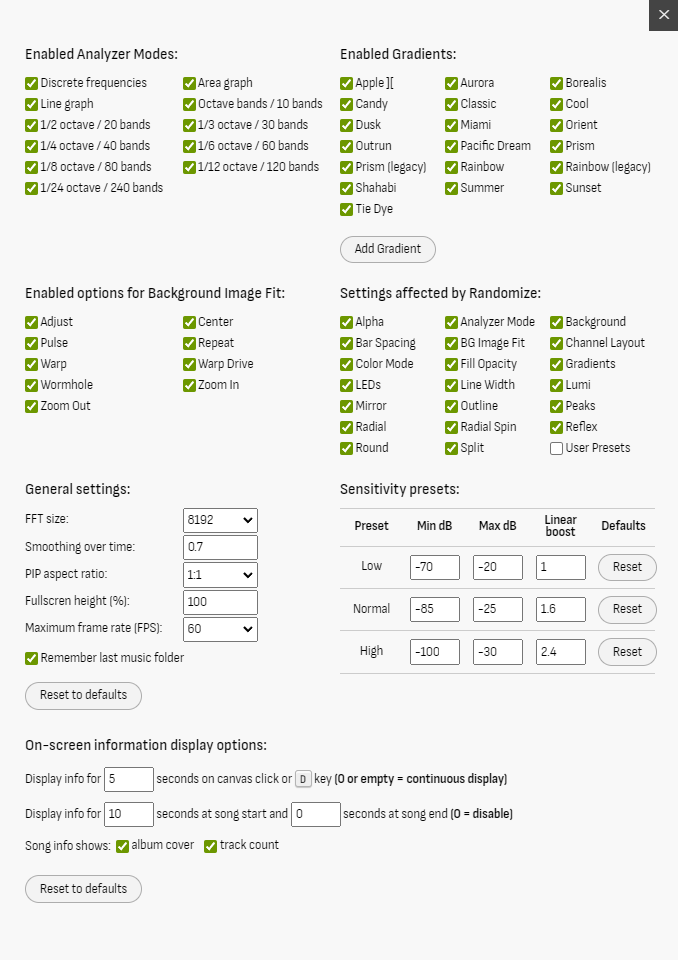
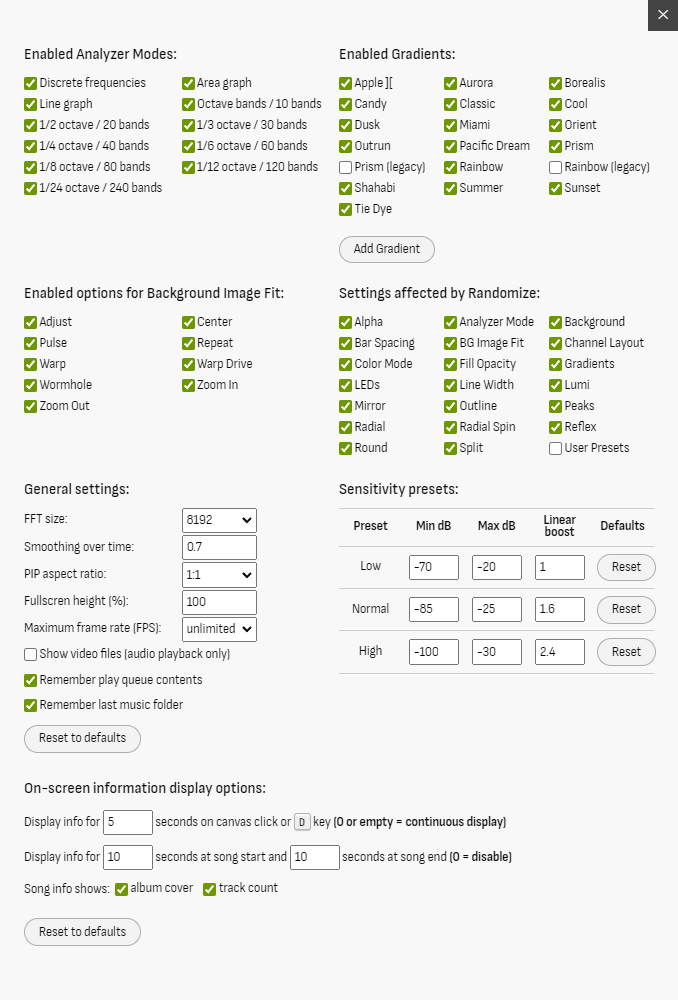
Update documentation.

diff --git a/docs/users-manual.md b/docs/users-manual.md
@@ -314,7 +314,7 @@ visualization of frequencies to which the human ear is more or less sensitive.
 
 ![weighting-filters-curves](img/weighting-filters-curves.png)
 
-?> Weighting filters **do NOT** affect the audio output.
+?> Weighting filters **do NOT** affect audio output. Some filters may impact performance, due to increased real-time data processing.
 
 ### Channel Layout
 
@@ -329,7 +329,7 @@ Selects single or dual channel display, with different layout options:
 | **HORIZ** | Dual channel, side by side - see [Mirror](#mirror) for additional layout options.
 | **VERT**  | Dual channel, left channel at the top half of the canvas and right channel at the bottom.
 
-This setting does NOT affect the audio output of stereo songs.
+The channel layout setting does NOT affect stereo audio output.
 
 ### Switches
 
@@ -338,7 +338,7 @@ This setting does NOT affect the audio output of stereo songs.
 | Switch      | Description |
 |:------------|:------------|
 | **INFO**    | Toggle on-screen display of song information on every track change
-| **PEAKS**   | Toggle display of amplitude peaks for each frequency
+| **PEAKS**   | Toggle display of amplitude peaks
 | **SCALE&nbsp;X** | Toggle display of scale on the horizontal axis (frequency)
 | **NOTES**   | Switch between musical notes and frequency values for the labels displayed in the horizontal axis scale
 | **SCALE&nbsp;Y** | Toggle display of scale on the vertical axis (level/volume)
@@ -346,15 +346,13 @@ This setting does NOT affect the audio output of stereo songs.
 | **ANSI**    | Switch between [ANSI/IEC preferred frequencies](https://archive.org/details/gov.law.ansi.s1.11.2004) and [equal-tempered scale](http://hyperphysics.phy-astr.gsu.edu/hbase/Music/et.html) to generate octave bands
 | **FPS**     | Toggle display of current frame rate at the top right corner
 | **FLAT**    | Switch between outlined (on) or shadowed (off) text for messages displayed on canvas (shadowed mode may affect performance on some graphics cards)
-| **LO-RES**  | Toggle low resolution rendering to improve rendering speed (especially useful for 4K+ displays)
-
-| Switch      | Description | Example |
-|:------------|:------------|:-------:|
-| **ALPHA**   | Toggle varying bar transparency - the higher the bar amplitude the more opaque it is | <img src="img/alpha-on-off.webp" width="360">
-| **LUMI**    | Toggle luminance bars effect - similar to ALPHA, but all analyzer bars are displayed at full-height (no effect with RADIAL) | <img src="img/screenshot5.png" width="360">
-| **LEDS**    | Toggle vintage LED effect for the analyzer bars | <img src="img/leds.png" width="360">
-| **OUTLINE** | Toggle bar outline mode - see [Line width and Fill opacity](#line-width-and-fill-opacity) settings | <img src="img/outline.png" width="360">
-| **RADIAL**  | Toggle display of circular spectrum analyzer with radial bars. **This mode disables both LEDS and LUMI effects.** | <img src="img/screenshot7.png" width="360">
+| **LO-RES**  | Toggle low resolution mode (may improve performance, especially on 4K+ displays)
+| **ALPHA**   | Toggle variable bar transparency - the higher the bar amplitude the more opaque it is
+| **LUMI**    | Toggle luminance bars effect - similar to ALPHA, but all analyzer bars are displayed at full-height (no effect with RADIAL)
+| **LEDS**    | Toggle LED effect for the analyzer bars (bands modes only, no effect with RADIAL)
+| **OUTLINE** | Toggle bar outline mode - see [Line width and Fill opacity](#line-width-and-fill-opacity) settings (bands modes only)
+| **RADIAL**  | Toggle display of circular spectrum analyzer with radial bars. **This option disables both LEDS and LUMI effects.**
+| **ROUND**   | Toggle rounded corners at the top of analyzer bars (bands modes only)
 
 
 ## Console
@@ -430,7 +428,11 @@ You can also use the **Shift** + **Up** and **Down** arrows to adjust the analyz
 **Maximum frame rate (FPS)** allows you to control the maximum animation frame rate, in frames per second.
 'Unlimited' will try to match your monitor's refresh rate, but may result in high CPU usage.
 
-**Remember last music folder**, when checked, will cause the file explorer to start in the last previously used folder, when opening audioMotion again.
+**Show video files** - whether or not to show video files in the file explorer.
+
+**Remember play queue contents** - whether or not to automatically restore the contents of the play queue the next time you open audioMotion.
+
+**Remember last music folder** - whether or not to start the file explorer in the last previously used folder the next time you open audioMotion.
 
 The **Reset to defaults** button will reset all settings in this section to their default values.
 

diff --git a/docs/README.md b/docs/README.md
@@ -77,6 +77,7 @@ And all the developers and artists, for the following resources:
 * Fonts [Orbitron](https://github.com/theleagueof/orbitron), [Jet Brains Mono](https://github.com/JetBrains/JetBrainsMono) (_from [Google Fonts](https://fonts.google.com/specimen/JetBrains+Mono)_) and
 [Sofia-Sans Semi-Condensed](https://github.com/lettersoup/Sofia-Sans) licensed under the [SIL Open Font License](https://scripts.sil.org/cms/scripts/page.php?site_id=nrsi&id=ofl)
 * Icons provided by [icons8](https://icons8.com) licensed under [Creative Commons Attribution-NoDerivs 3.0 Unported](https://creativecommons.org/licenses/by-nd/3.0/)
+* Additional icons provided by [@fontawesome](https://fontawesome.com) licensed under [Font Awesome Free License](https://fontawesome.com/license/free)
 * [Mouse scroll icon](https://thenounproject.com/term/mouse-scroll/628146/) by Viktor Ostrovsky, licensed under [Creative Commons CCBY](https://creativecommons.org/licenses/by/3.0/us/legalcode)
 * Gradients *Prism* and *Rainbow* use the [12-bit rainbow palette](https://iamkate.com/data/12-bit-rainbow/) by Kate Morley
 * Gradients [*Candy*](https://gradienthunt.com/gradient/172), [*Miami*](https://gradienthunt.com/gradient/950), [*Outrun*](https://gradienthunt.com/gradient/317) and [*Tie Dye*](https://gradienthunt.com/gradient/969) from [Gradient Hunt](https://gradienthunt.com)
